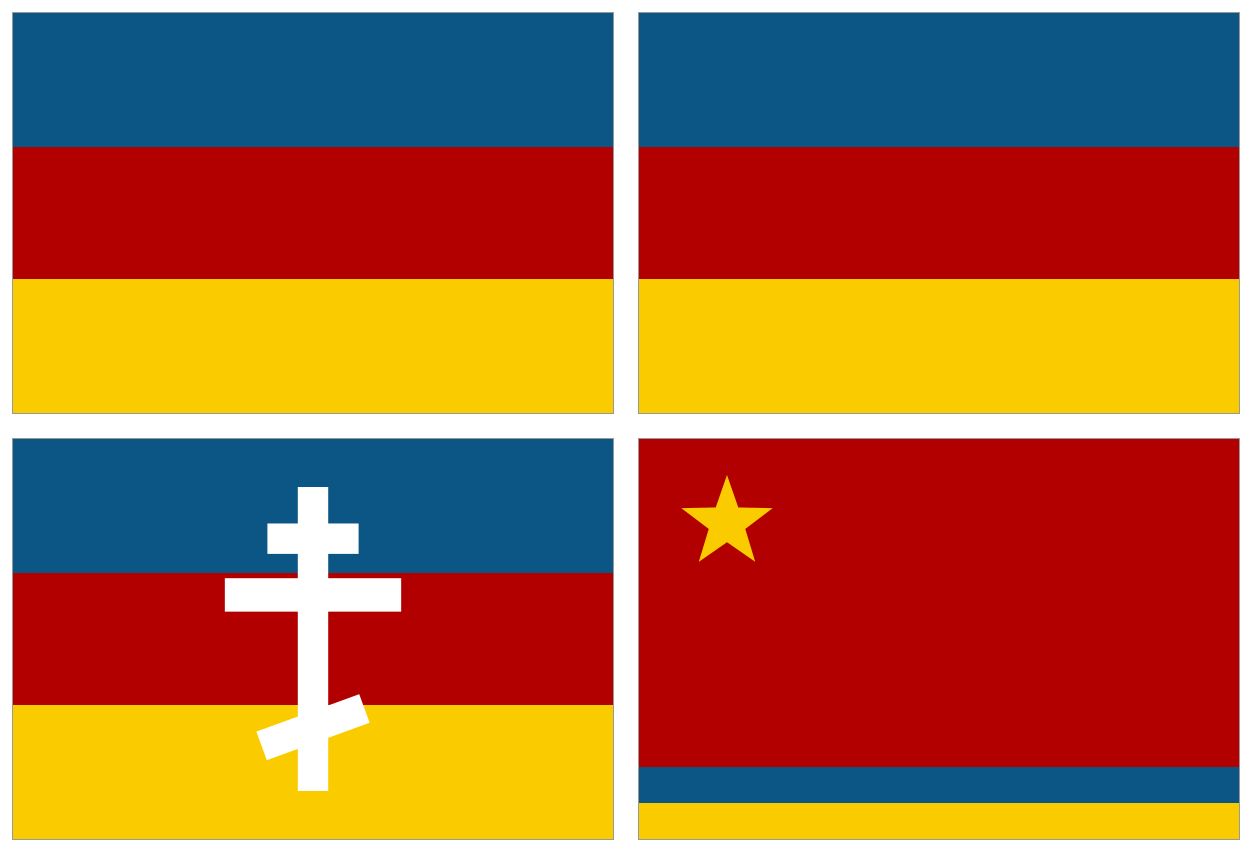
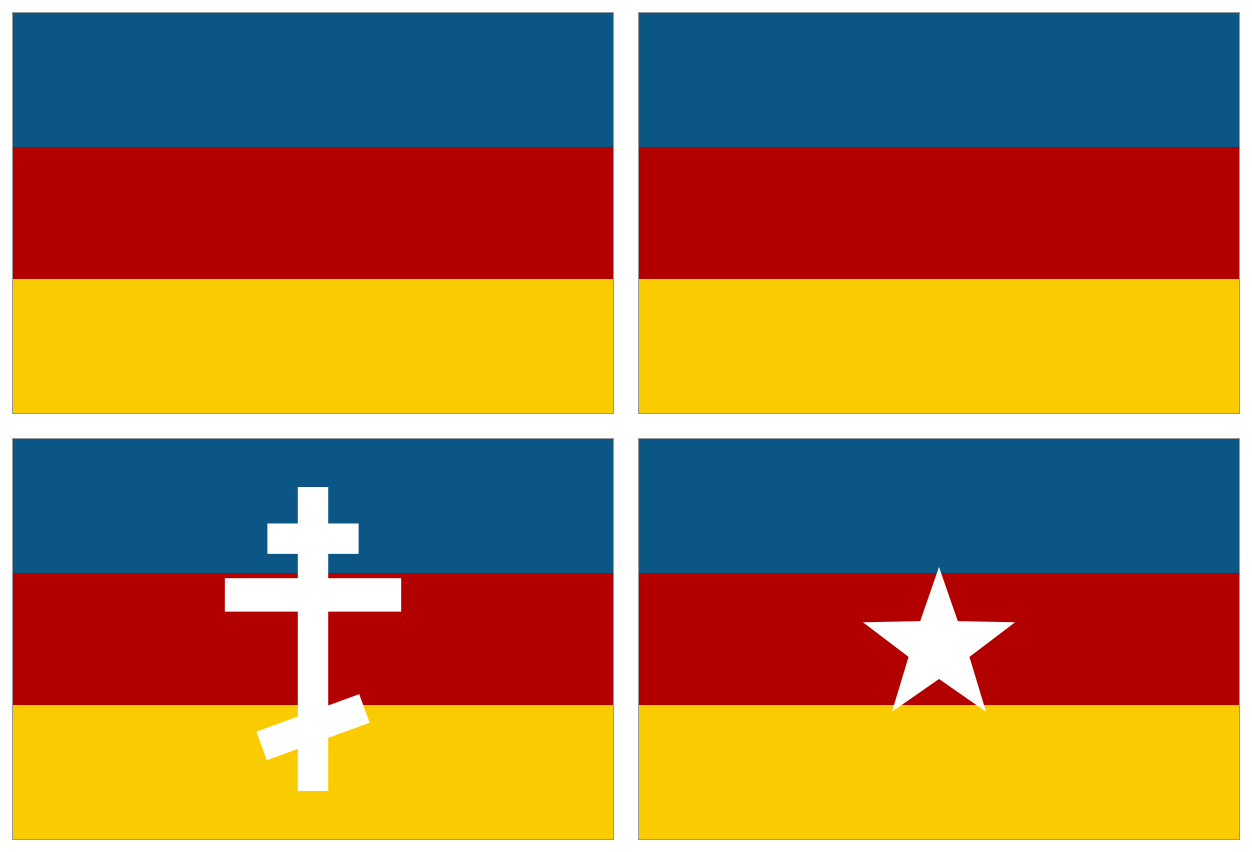
Panonia rewolucja: trójbarwa z białą gwiazdą
Claude-Session: https://claude.ai/code/session_01PNyJEgjZDVeUSFrp2WbnmN

Changed region(s): [[0.4984, 0.4883, 0.9968, 0.946]]

diff --git a/gfx_koncepty/flagi_dacja/generuj_flagi.py b/gfx_koncepty/flagi_dacja/generuj_flagi.py
@@ -27,8 +27,8 @@ F={
  'panonia_2_monarchia': svg(TRI),
  # Teokracja unicka (biskupi Timișoary w unii z Rzymem, obrządek wschodni): trójbarwa jak republika, na środku biały krzyż trójbelkowy
  'panonia_3_teokracja': svg(TRI+krzyz_trojbelkowy(150,24,152,W)),
- # Panonia rewolucyjna: czerwień, u dołu cienkie pasy błękit i żółć, złota gwiazda w rogu
- 'panonia_4_rewolucja': svg(f'<rect width="300" height="200" fill="{R}"/><rect y="164" width="300" height="18" fill="{B}"/><rect y="182" width="300" height="18" fill="{Y}"/>'+star(44,42,24,Y)),
+ # Panonia rewolucyjna: trójbarwa jak republika, na środku biała gwiazda
+ 'panonia_4_rewolucja': svg(TRI+star(150,104,40,W)),
 }
 for k,v in F.items():
     p=os.path.join(HERE,k+'.svg'); open(p,'w').write(v)

diff --git a/gfx_koncepty/flagi_dacja/README.md b/gfx_koncepty/flagi_dacja/README.md
@@ -7,7 +7,7 @@ Płaskie flagi 3:2 (SVG 1536×1024) i podgląd PNG, generowane skryptem `generuj
 | panonia_1_republika | Republika Panońska (katolicki zachód Dacji między Karpatami a Cisą, jeśli się oderwie): błękit, czerwień i żółć (wzór od autora moda) |
 | panonia_2_monarchia | Królestwo Panonii: ta sama trójbarwa co republika |
 | panonia_3_teokracja | Teokracja unicka (biskupi Timișoary w unii z Rzymem, obrządek wschodni): trójbarwa jak republika, na środku biały krzyż trójbelkowy |
-| panonia_4_rewolucja | Panonia rewolucyjna: czerwień, złota gwiazda w rogu, u dołu cienkie pasy błękit i żółć |
+| panonia_4_rewolucja | Panonia rewolucyjna: trójbarwa jak republika, na środku biała gwiazda |
 
 Podgląd: [panonia_arkusz.png](panonia_arkusz.png).
 
